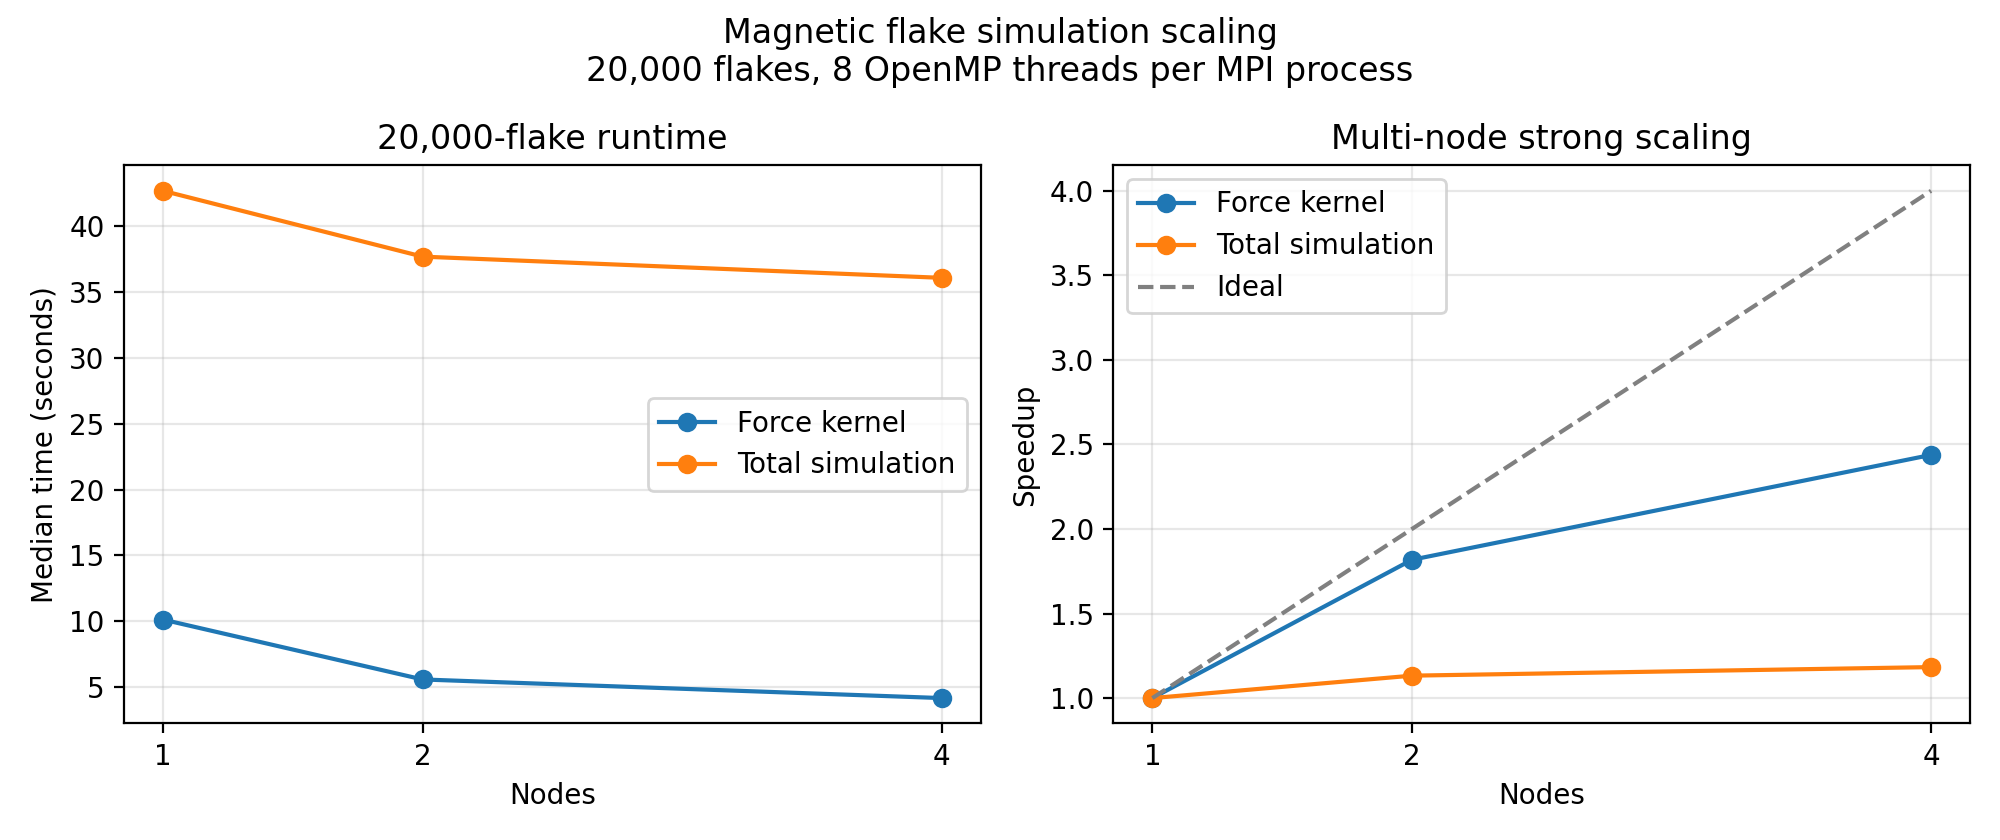
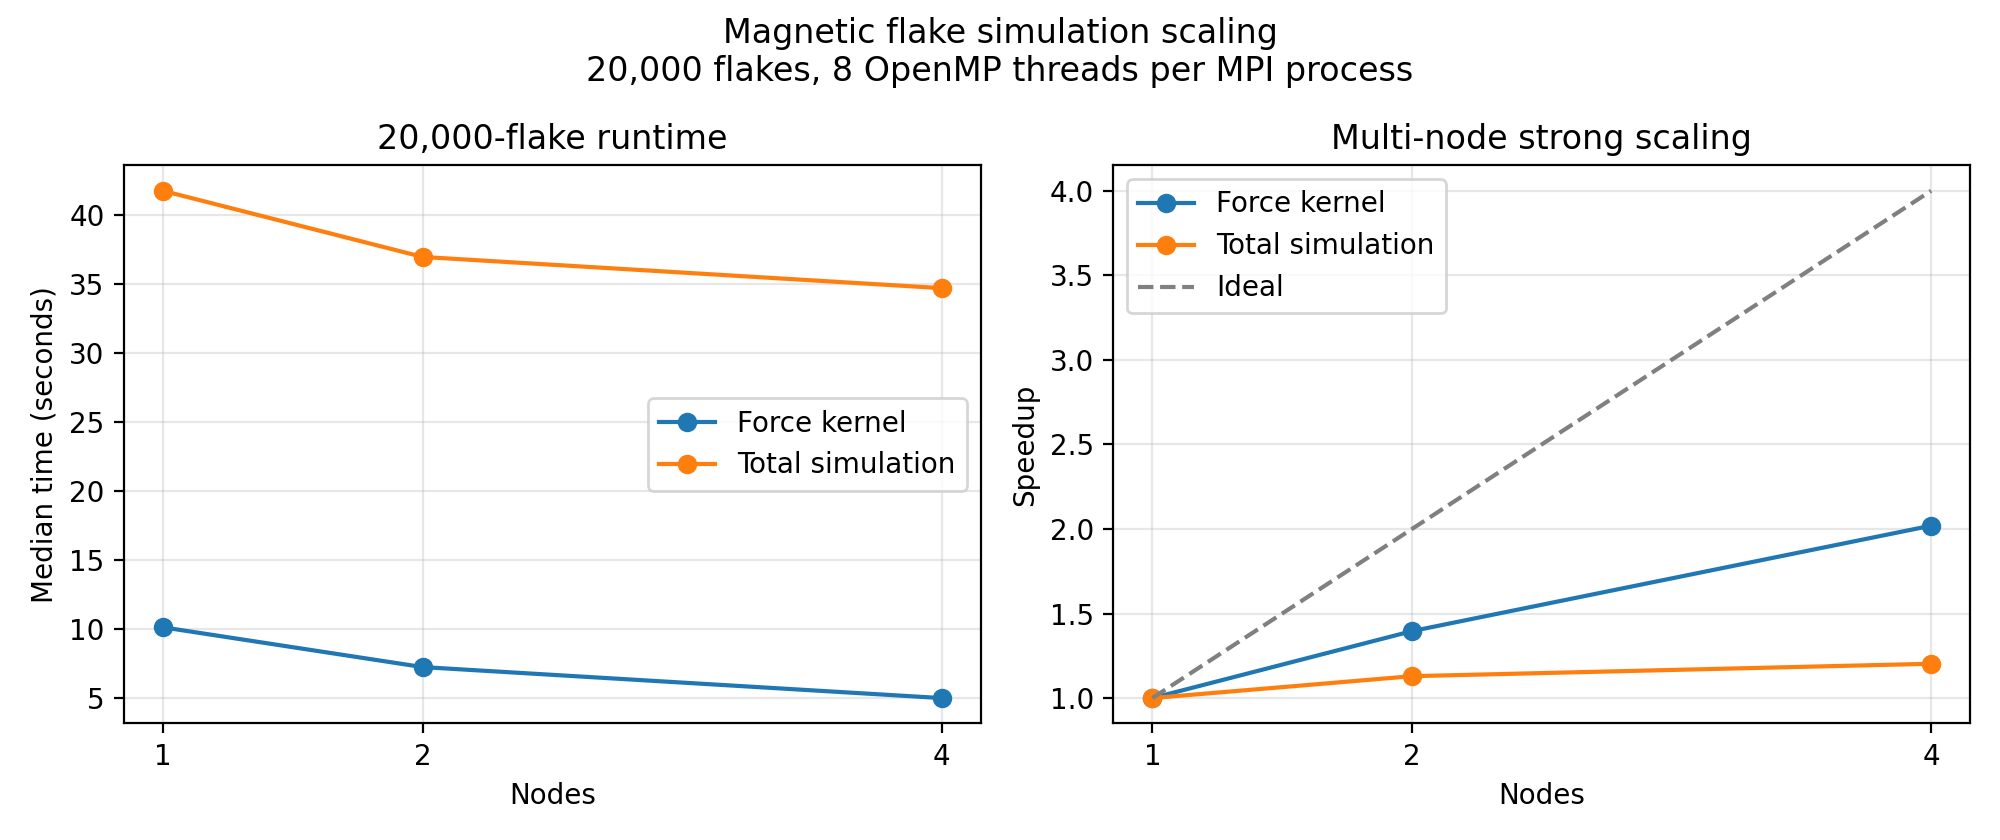
Log MPI placement and validate large-run outputs

diff --git a/c/analyze_runtime_scaling.py b/c/analyze_runtime_scaling.py
@@ -22,7 +22,7 @@ def read_runs(path, run_pattern):
     records = defaultdict(list)
     current_key = None
 
-    for line in path.read_text().splitlines():
+    for line in path.read_text(errors="ignore").splitlines():
         run_match = run_pattern.search(line)
         if run_match:
             current_key = tuple(int(value) for value in run_match.groups())
@@ -63,7 +63,7 @@ multinode_runs = read_runs(
 
 
 with (RESULTS / "hybrid_runtime.csv").open("w", newline="") as file:
-    writer = csv.writer(file)
+    writer = csv.writer(file, lineterminator="\n")
     writer.writerow(
         [
             "mpi_processes",
@@ -107,7 +107,7 @@ baseline_total = multi_summary[1]["total"]
 with (RESULTS / "multinode_20k_scaling.csv").open(
     "w", newline=""
 ) as file:
-    writer = csv.writer(file)
+    writer = csv.writer(file, lineterminator="\n")
     writer.writerow(
         [
             "nodes",

diff --git a/MPI.md b/MPI.md
@@ -113,11 +113,16 @@ All layouts use eight CPU cores and are repeated three times.
 | 4 | 2 | 2.041 | 7.352 |
 | 8 | 1 | 1.140 | 11.466 |
 
-For this problem size, one MPI process with eight OpenMP threads is fastest
-for both the force kernel and the complete simulation. Increasing the number
-of MPI processes makes total runtime worse when the total core count is
-fixed, because collision handling and the rest of the simulation are repeated
-on every rank.
+With eight total cores fixed, increasing the number of MPI processes leaves
+fewer OpenMP threads for each copy of the non-force work. The median
+non-force time therefore rises from 1.95 to 2.97, 5.31, and 10.33 seconds as
+threads per process fall from 8 to 4, 2, and 1. Replicating the work does not
+itself add the rank times together because ranks run simultaneously; the
+slowdown comes from giving each copy fewer OpenMP threads.
+
+The mixed-layout force timings were higher than in an earlier allocation,
+although the force code and CPU model were unchanged. The difference is
+therefore treated as shared-node, placement, NUMA, or system-load variability.
 
 ## 20,000-flake multi-node scaling
 
@@ -132,13 +137,21 @@ configuration is repeated three times.
 
 | Nodes | Total cores | Force time (s) | Force speedup | Total time (s) | Total speedup |
 |---:|---:|---:|---:|---:|---:|
-| 1 | 8 | 10.116 | 1.00 | 42.706 | 1.00 |
-| 2 | 16 | 5.565 | 1.82 | 37.705 | 1.13 |
-| 4 | 32 | 4.149 | 2.44 | 36.092 | 1.18 |
+| 1 | 8 | 10.144 | 1.00 | 41.731 | 1.00 |
+| 2 | 16 | 7.266 | 1.40 | 36.946 | 1.13 |
+| 4 | 32 | 5.023 | 2.02 | 34.689 | 1.20 |
 
-The force calculation scales substantially across nodes. Total runtime
-improves more modestly because collision handling is replicated. Four nodes
-reduce force time by about 59% and total runtime by about 15.5%.
+The placement-recorded run used AMD EPYC 7513 nodes and bound every rank to
+eight consecutive cores within one socket. The output CSVs from 1, 2, and 4
+nodes were byte-identical.
+
+The force calculation scales across nodes, while non-force time remains
+roughly 30 to 32 seconds because every node still gives its copy eight
+OpenMP threads. On one node, the force kernel is about 24% of total runtime,
+so Amdahl's law limits total speedup to about 1.32 times even if the force
+calculation were made infinitely fast. The measured four-node total speedup
+is 1.20 times: force time falls by about 50%, while total runtime falls by
+about 17%.
 
 ## Results
 
